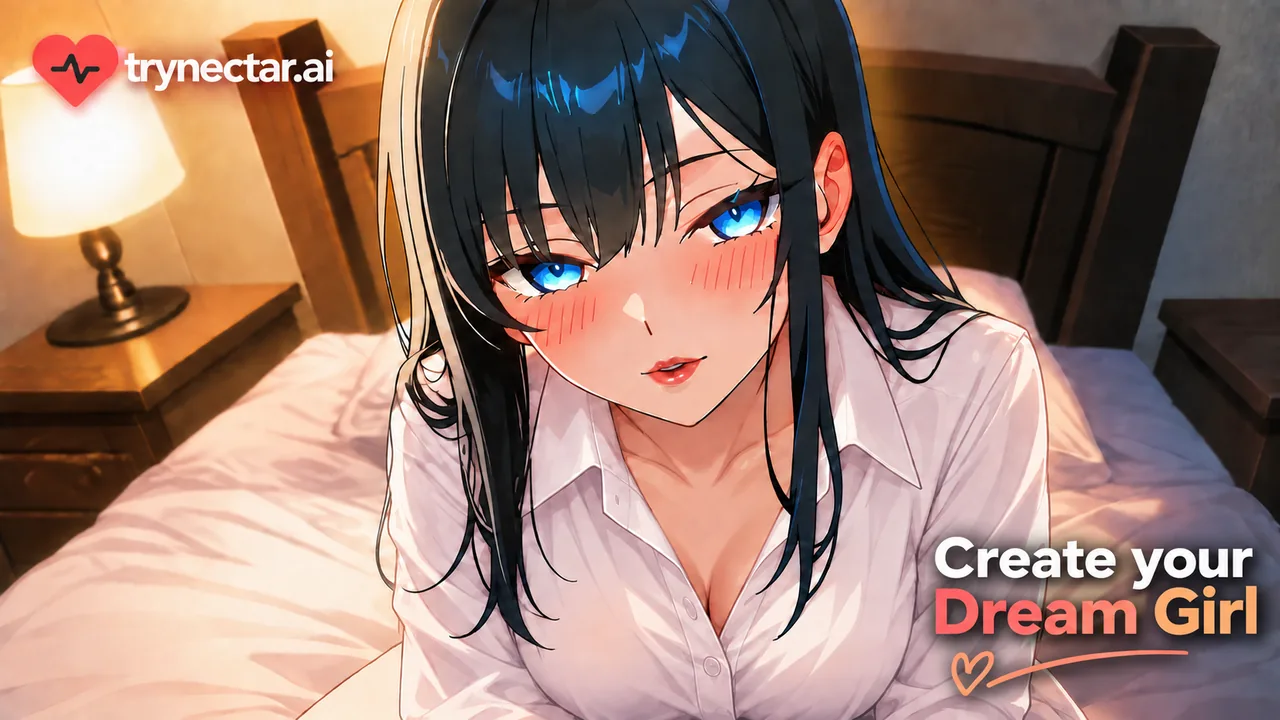
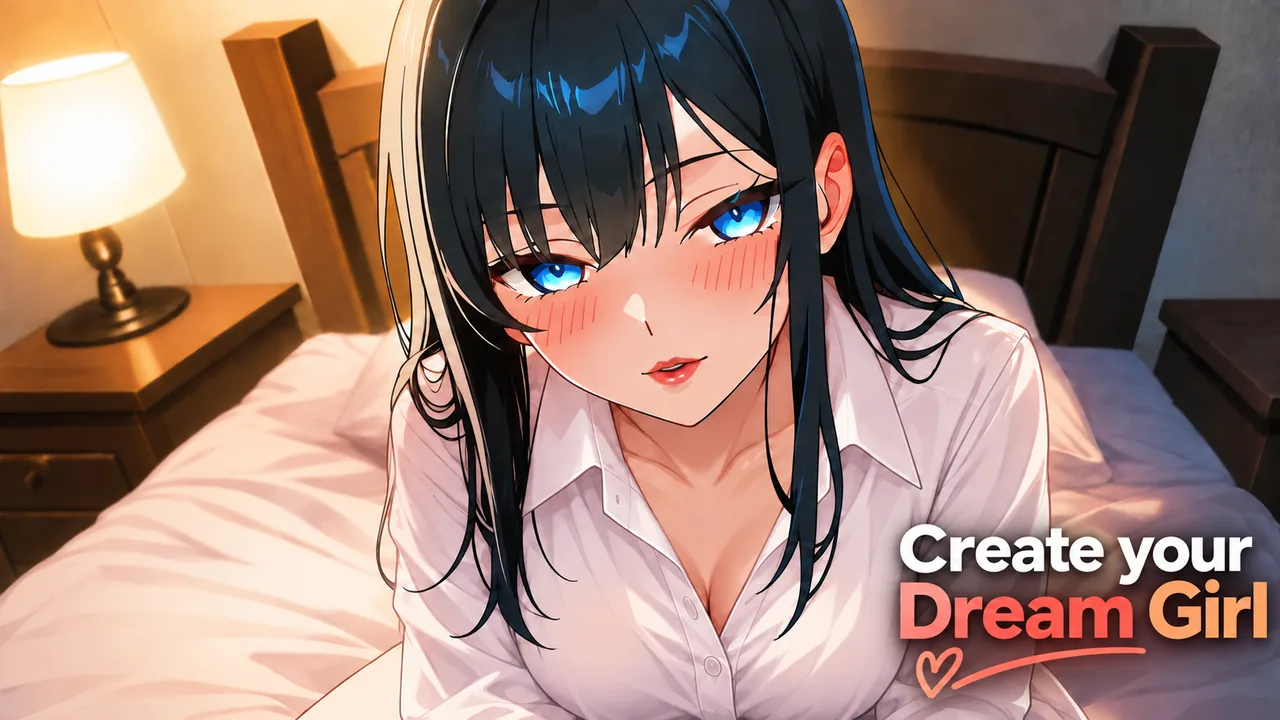
Only pin the tab bar in Selected Work, freeing space on mobile
Sticky the compact tab bar alone instead of the whole intro+tabs block, so
the intro copy scrolls away normally and cards get far more room to display
fully on short viewports. Also:
- Lower the static-grid fallback threshold (700px -> 480px) since mobile
  browsers often report a short viewport before their chrome collapses,
  which was hiding the tab bar on ordinary phones.
- Add a small gap between the nav and the pinned tab bar.
- Bump card min-height to 465px.
- Refresh the TryNectar thumbnail.

Claude-Session: https://claude.ai/code/session_0148GmeBCeyks87QNPy9Envf

diff --git a/src/styles/portfolio.css b/src/styles/portfolio.css
@@ -211,26 +211,24 @@ nav .wrap-wide{ display:flex; align-items:center; justify-content:space-between;
 @media (max-width:600px){ .tl-item{ grid-template-columns:1fr; gap:6px; } }
 
 /* ---------- projects grid (home) ---------- */
-/* Sticky "card stack": the head (title + tab bar) pins just below the nav
-   while the stage scrolls, and each card is itself sticky right below the
-   head — later cards (higher z-index) slide up and settle on top of earlier
-   ones as you scroll, until the stage's own height runs out and the whole
-   section finally scrolls away normally. ProjectStackTabs measures the
-   rendered head height on mount/resize and writes it into --stack-top, so
-   the cards always start flush under the head regardless of how the intro
-   copy wraps at a given width. */
-.project-stack-stage > .stack-head{
-  position:sticky; top:58px; z-index:8;
-  padding:18px 0 20px;
-  background:linear-gradient(to bottom, var(--bg) 82%, transparent);
-}
-.project-stack-stage > .stack-head > .section-head{ margin-bottom:16px; }
+/* Sticky "card stack": only the tab bar itself pins just below the nav while
+   the stage scrolls — the intro copy above it scrolls away normally, so the
+   pinned strip stays compact (one row) instead of eating a big chunk of the
+   viewport for the whole scroll. Each card is sticky right below the tabs —
+   later cards (higher z-index) slide up and settle on top of earlier ones as
+   you scroll, until the stage's own height runs out and the whole section
+   finally scrolls away normally. ProjectStackTabs measures the tab bar's
+   rendered height on mount/resize and writes it into --stack-top, so cards
+   always start flush under it regardless of viewport width. */
+.project-stack-stage > .section-head{ margin-bottom:16px; }
 .proj-tabs{
+  position:sticky; top:70px; z-index:8;
   display:flex;
   border:1px solid var(--border); border-radius:999px;
   background:transparent; overflow:hidden;
   box-shadow:0 14px 34px -22px #000;
   transition:background-color 0.3s ease;
+  margin-bottom:20px;
 }
 /* Transparent lets each card show through as it slides up underneath — once
    Bloom (the last card) is the one settled in place, every project has
@@ -263,7 +261,7 @@ nav .wrap-wide{ display:flex; align-items:center; justify-content:space-between;
 .proj-grid > .proj-card-link,
 .proj-grid > .proj-card{
   position:sticky; top:var(--stack-top);
-  min-height:330px; margin-bottom:12px;
+  min-height:465px; margin-bottom:12px;
   border-radius:14px; overflow:hidden; isolation:isolate;
   transform:translateY(calc(var(--stack-peek) * var(--i, 0)));
   transform-origin:center top;
@@ -280,19 +278,17 @@ nav .wrap-wide{ display:flex; align-items:center; justify-content:space-between;
 .proj-grid > :nth-child(2){ --stack-accent:#34d399; z-index:2; }
 .proj-grid > :nth-child(3){ --stack-accent:#ff5a36; z-index:3; }
 .proj-grid > :nth-child(4){ --stack-accent:#4f8cff; z-index:4; margin-bottom:0; }
-@media (max-width:760px){
-  .project-stack-stage > .stack-head{ padding:14px 0 18px; }
-  .proj-grid{ --stack-peek:16px; }
-  .proj-grid > .proj-card-link, .proj-grid > .proj-card{ min-height:390px; margin-bottom:10px; }
-  .proj-grid > :nth-child(4){ margin-bottom:0; }
-}
-@media (max-height:700px), (prefers-reduced-motion:reduce){
-  .project-stack-stage > .stack-head{ position:relative; top:auto; padding:0; background:none; }
+/* Only bail out to a static grid for genuinely cramped viewports (e.g. phones
+   in landscape) now that the pinned strip is just the compact tab bar —
+   mobile browsers routinely report a viewport under 700px tall simply
+   because their address bar/toolbar chrome hasn't collapsed yet, which used
+   to falsely trigger this fallback and hide the tab bar on ordinary phones. */
+@media (max-height:480px), (prefers-reduced-motion:reduce){
   .proj-tabs{ display:none; }
   .proj-grid{ display:grid; grid-template-columns:1fr 1fr; gap:22px; padding-bottom:0; }
   .proj-grid > .proj-card-link, .proj-grid > .proj-card{ position:relative; top:auto; min-height:0; margin-bottom:0; border-radius:0; box-shadow:none; transform:none; }
 }
-@media ((max-height:700px) or (prefers-reduced-motion:reduce)) and (max-width:760px){
+@media (max-width:760px){
   .proj-grid{ grid-template-columns:1fr; }
 }
 .proj-card{ display:flex; flex-direction:column; height:100%; padding:26px; background-color:var(--surface); background-repeat:no-repeat; }

diff --git a/src/components/ProjectStackTabs.jsx b/src/components/ProjectStackTabs.jsx
@@ -5,28 +5,30 @@ const MIN_SCALE = 0.86;
 
 function fallbackActive() {
   return (
-    window.matchMedia("(max-height: 700px)").matches ||
+    window.matchMedia("(max-height: 480px)").matches ||
     window.matchMedia("(prefers-reduced-motion: reduce)").matches
   );
 }
 
-// .stack-head is itself sticky at `top: 58px` (pinned below the nav), while the
+// .proj-tabs is itself sticky at `top: 58px` (pinned below the nav), while the
 // cards' own `top` is measured from the real viewport edge — so the point the
-// cards must stick at is the head's own sticky offset PLUS its rendered height,
-// not just its height. Missing the offset made cards settle ~58px too high,
-// overlapping into the tab bar instead of sitting flush beneath it.
-function headStickTop(head) {
-  return (parseFloat(getComputedStyle(head).top) || 0) + head.offsetHeight;
+// cards must stick at is the tabs' own sticky offset PLUS its rendered height
+// and margin, not just its height. Missing the offset made cards settle too
+// high, overlapping into the tab bar instead of sitting flush beneath it.
+function tabsStickBottom(tabs) {
+  const top = parseFloat(getComputedStyle(tabs).top) || 0;
+  const marginBottom = parseFloat(getComputedStyle(tabs).marginBottom) || 0;
+  return top + tabs.offsetHeight + marginBottom;
 }
 
 export function scrollToStackCard(index = 0) {
   const stage = document.querySelector(".project-stack-stage");
-  const head = stage?.querySelector(".stack-head");
+  const tabs = stage?.querySelector(".proj-tabs");
   const grid = stage?.querySelector(".proj-grid");
   const cards = stage?.querySelectorAll(".proj-grid > .proj-card-link, .proj-grid > .proj-card");
   const card = cards?.[index];
-  if (!card || !head || !grid) return false;
-  const stackTop = headStickTop(head);
+  if (!card || !tabs || !grid) return false;
+  const stackTop = tabsStickBottom(tabs);
   let cumulative = 0;
   for (let j = 0; j < index; j += 1) {
     cumulative += cards[j].offsetHeight + (parseFloat(getComputedStyle(cards[j]).marginBottom) || 0);
@@ -43,13 +45,13 @@ export default function ProjectStackTabs({ stageRef, names }) {
   useEffect(() => {
     const stage = stageRef.current;
     if (!stage) return undefined;
-    const head = stage.querySelector(".stack-head");
+    const tabs = stage.querySelector(".proj-tabs");
     const grid = stage.querySelector(".proj-grid");
     const cards = Array.from(stage.querySelectorAll(".proj-grid > .proj-card-link, .proj-grid > .proj-card"));
-    if (!head || !grid || !cards.length) return undefined;
+    if (!tabs || !grid || !cards.length) return undefined;
 
     const syncStackTop = () => {
-      grid.style.setProperty("--stack-top", `${headStickTop(head)}px`);
+      grid.style.setProperty("--stack-top", `${tabsStickBottom(tabs)}px`);
     };
 
     let ticking = false;
@@ -59,7 +61,7 @@ export default function ProjectStackTabs({ stageRef, names }) {
         cards.forEach((card) => { card.style.transform = ""; });
         return;
       }
-      const stackTop = headStickTop(head);
+      const stackTop = tabsStickBottom(tabs);
       const peek = parseFloat(getComputedStyle(grid).getPropertyValue("--stack-peek")) || 0;
       const gridDocTop = grid.getBoundingClientRect().top + window.scrollY;
 
@@ -89,7 +91,7 @@ export default function ProjectStackTabs({ stageRef, names }) {
       syncStackTop();
       update();
     });
-    ro.observe(head);
+    ro.observe(tabs);
     window.addEventListener("scroll", onFrame, { passive: true });
     window.addEventListener("resize", onFrame);
     return () => {

diff --git a/src/pages/LocalizedHome.jsx b/src/pages/LocalizedHome.jsx
@@ -85,10 +85,8 @@ export default function LocalizedHome() {
 
         <section id="work"><div className="wrap-wide">
           <div className="project-stack-stage" ref={stageRef}>
-          <div className="stack-head">
           <div className="section-head"><div className="eyebrow">{copy.workLabel}</div><h2>{copy.workTitle}</h2><p>{copy.workIntro}</p></div>
           <ProjectStackTabs stageRef={stageRef} names={PROJECT_NAMES} />
-          </div>
           <div className="proj-grid">{PROJECTS.map((project, index) => <ProjectCard project={project} copy={copy.projects[index]} role={copy.projectRoles[index]} index={index} key={project.name} />)}</div>
           </div>
           <div className="secondary-list">{copy.secondary.map(([title, desc]) => <div className="sec-item" key={title}><div className="sec-title">{title}</div><div className="sec-desc">{desc}</div></div>)}</div>

diff --git a/src/pages/Home.jsx b/src/pages/Home.jsx
@@ -149,7 +149,6 @@ export default function Home() {
         <section id="work">
           <div className="wrap-wide">
             <div className="project-stack-stage" ref={stageRef}>
-            <div className="stack-head">
             <div className="section-head">
               <div className="eyebrow">03 · Selected Work</div>
               <h2>Featured projects</h2>
@@ -160,7 +159,6 @@ export default function Home() {
               </p>
             </div>
             <ProjectStackTabs stageRef={stageRef} names={PROJECT_NAMES} />
-            </div>
 
             <div className="proj-grid">
               <Link className="proj-card-link" to="/projects/flickrz" style={{ "--i": 0 }}>
